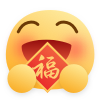
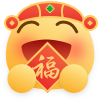
更新放鞭炮等6个表情

Changed region(s): [[0.03, 0.0, 0.99, 0.33], [0.42, 0.39, 0.51, 0.42]]

diff --git a/README.md b/README.md
@@ -35,6 +35,7 @@ If you also use it, you are welcome to submit pr.
 - [x] [齐下无贰](https://weidows.github.io/)
 - [x] [森木志](https://imxxz.cn/) 
 - [x] [Gahotx](https://gahotx.cn/)
+- [x] [FiveFire2021](https://fivefire2021.github.io/)
 
 
 ## Installation
